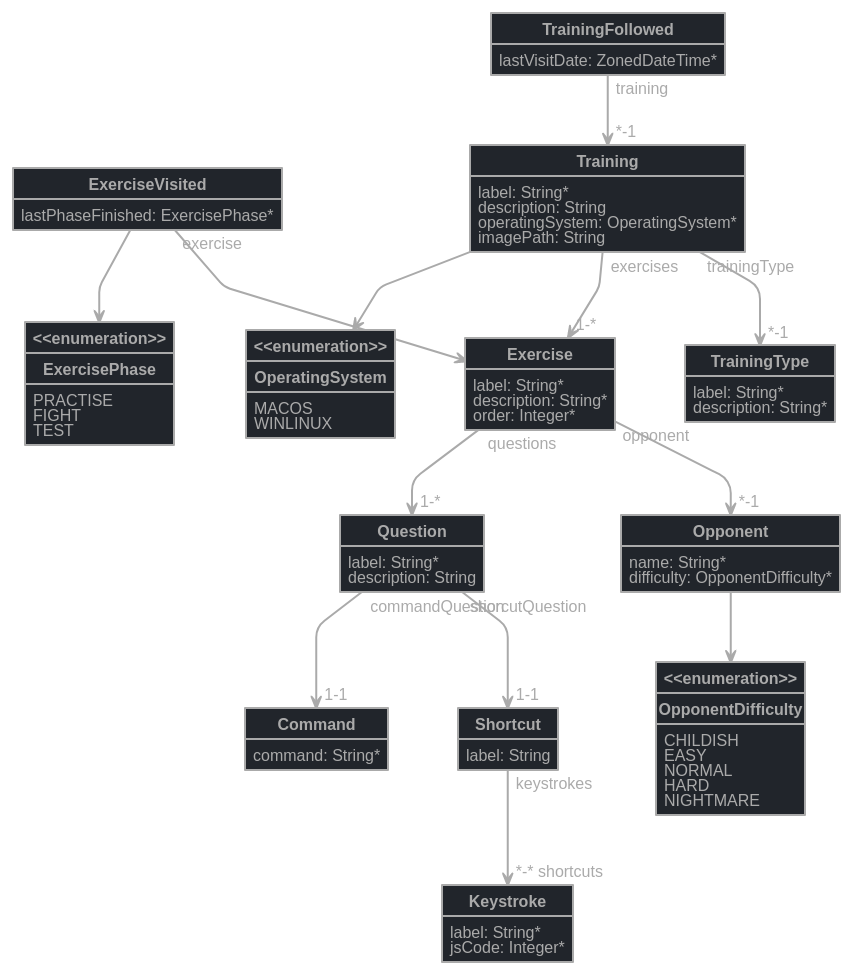
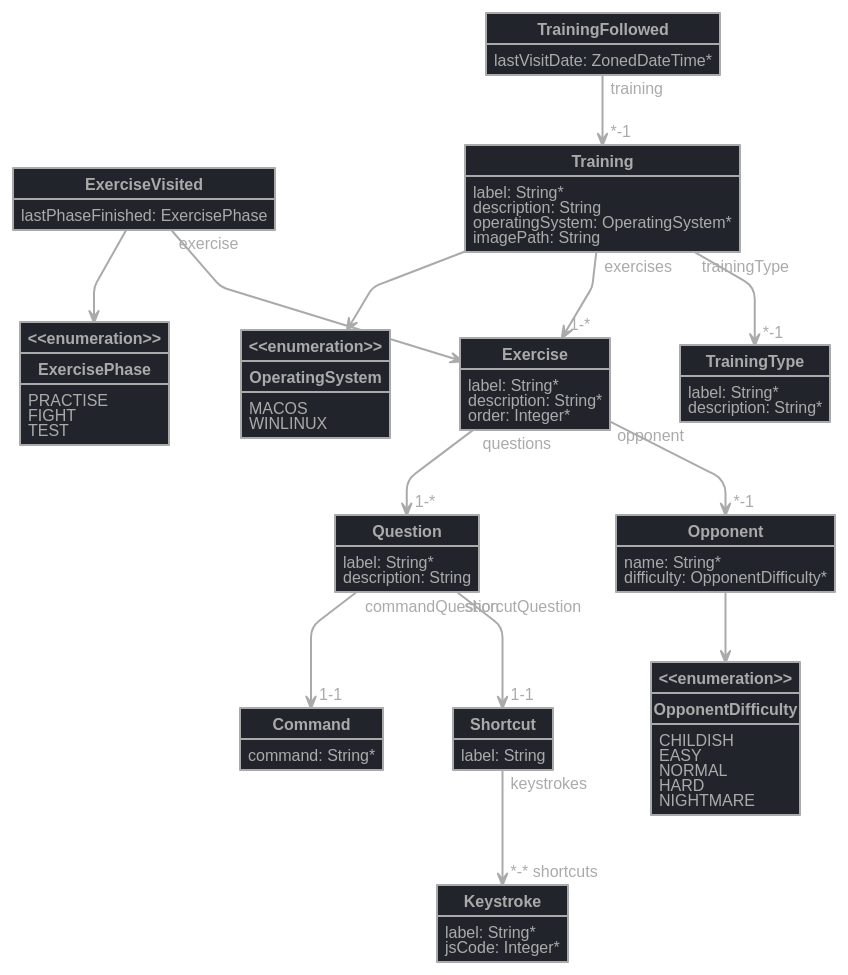
fix: corrected diverse incorrect constraints
Required on lastPhaseFinished of ExerciseVisited
Required on descriptions
Adjusted models and lombok once again

diff --git a/src/main/webapp/app/entities/exercise-visited/exercise-visited-dialog.component.html b/src/main/webapp/app/entities/exercise-visited/exercise-visited-dialog.component.html
@@ -14,17 +14,11 @@
         </div>
         <div class="form-group">
             <label class="form-control-label" jhiTranslate="shortcutmasterApp.exerciseVisited.lastPhaseFinished" for="field_lastPhaseFinished">Last Phase Finished</label>
-            <select class="form-control" name="lastPhaseFinished" [(ngModel)]="exerciseVisited.lastPhaseFinished" id="field_lastPhaseFinished"  required>
+            <select class="form-control" name="lastPhaseFinished" [(ngModel)]="exerciseVisited.lastPhaseFinished" id="field_lastPhaseFinished" >
                 <option value="PRACTISE">{{'shortcutmasterApp.ExercisePhase.PRACTISE' | translate}}</option>
                 <option value="FIGHT">{{'shortcutmasterApp.ExercisePhase.FIGHT' | translate}}</option>
                 <option value="TEST">{{'shortcutmasterApp.ExercisePhase.TEST' | translate}}</option>
             </select>
-            <div [hidden]="!(editForm.controls.lastPhaseFinished?.dirty && editForm.controls.lastPhaseFinished?.invalid)">
-                <small class="form-text text-danger"
-                   [hidden]="!editForm.controls.lastPhaseFinished?.errors?.required" jhiTranslate="entity.validation.required">
-                   This field is required.
-                </small>
-            </div>
         </div>
 
         <div class="form-group">

diff --git a/src/main/webapp/app/entities/exercise/exercise-dialog.component.html b/src/main/webapp/app/entities/exercise/exercise-dialog.component.html
@@ -26,13 +26,7 @@
         <div class="form-group">
             <label class="form-control-label" jhiTranslate="shortcutmasterApp.exercise.description" for="field_description">Description</label>
             <input type="text" class="form-control" name="description" id="field_description"
-                [(ngModel)]="exercise.description" required/>
-            <div [hidden]="!(editForm.controls.description?.dirty && editForm.controls.description?.invalid)">
-                <small class="form-text text-danger"
-                   [hidden]="!editForm.controls.description?.errors?.required" jhiTranslate="entity.validation.required">
-                   This field is required.
-                </small>
-            </div>
+                [(ngModel)]="exercise.description" />
         </div>
         <div class="form-group">
             <label class="form-control-label" jhiTranslate="shortcutmasterApp.exercise.order" for="field_order">Order</label>

diff --git a/src/main/webapp/app/entities/training-type/training-type-dialog.component.html b/src/main/webapp/app/entities/training-type/training-type-dialog.component.html
@@ -26,13 +26,7 @@
         <div class="form-group">
             <label class="form-control-label" jhiTranslate="shortcutmasterApp.trainingType.description" for="field_description">Description</label>
             <input type="text" class="form-control" name="description" id="field_description"
-                [(ngModel)]="trainingType.description" required/>
-            <div [hidden]="!(editForm.controls.description?.dirty && editForm.controls.description?.invalid)">
-                <small class="form-text text-danger"
-                   [hidden]="!editForm.controls.description?.errors?.required" jhiTranslate="entity.validation.required">
-                   This field is required.
-                </small>
-            </div>
+                [(ngModel)]="trainingType.description" />
         </div>
 
     </div>

diff --git a/src/main/webapp/app/entities/exercise-visited/exercise-visited.model.ts b/src/main/webapp/app/entities/exercise-visited/exercise-visited.model.ts
@@ -11,7 +11,6 @@ export class ExerciseVisited implements BaseEntity {
         public id?: number,
         public lastPhaseFinished?: ExercisePhase,
         public exercise?: BaseEntity,
-        public user?: BaseEntity,
     ) {
     }
 }

diff --git a/src/main/java/msb/shortcut/master/web/rest/ExerciseVisitedResource.java b/src/main/java/msb/shortcut/master/web/rest/ExerciseVisitedResource.java
@@ -11,7 +11,6 @@ import org.slf4j.LoggerFactory;
 import org.springframework.http.ResponseEntity;
 import org.springframework.web.bind.annotation.*;
 
-import javax.validation.Valid;
 import java.net.URI;
 import java.net.URISyntaxException;
 
@@ -44,7 +43,7 @@ public class ExerciseVisitedResource {
      */
     @PostMapping("/exercise-visiteds")
     @Timed
-    public ResponseEntity<ExerciseVisited> createExerciseVisited(@Valid @RequestBody ExerciseVisited exerciseVisited) throws URISyntaxException {
+    public ResponseEntity<ExerciseVisited> createExerciseVisited(@RequestBody ExerciseVisited exerciseVisited) throws URISyntaxException {
         log.debug("REST request to save ExerciseVisited : {}", exerciseVisited);
         if (exerciseVisited.getId() != null) {
             throw new BadRequestAlertException("A new exerciseVisited cannot already have an ID", ENTITY_NAME, "idexists");
@@ -66,7 +65,7 @@ public class ExerciseVisitedResource {
      */
     @PutMapping("/exercise-visiteds")
     @Timed
-    public ResponseEntity<ExerciseVisited> updateExerciseVisited(@Valid @RequestBody ExerciseVisited exerciseVisited) throws URISyntaxException {
+    public ResponseEntity<ExerciseVisited> updateExerciseVisited(@RequestBody ExerciseVisited exerciseVisited) throws URISyntaxException {
         log.debug("REST request to update ExerciseVisited : {}", exerciseVisited);
         if (exerciseVisited.getId() == null) {
             return createExerciseVisited(exerciseVisited);

diff --git a/src/main/java/msb/shortcut/master/domain/ExerciseVisited.java b/src/main/java/msb/shortcut/master/domain/ExerciseVisited.java
@@ -7,7 +7,6 @@ import org.hibernate.annotations.Cache;
 import org.hibernate.annotations.CacheConcurrencyStrategy;
 
 import javax.persistence.*;
-import javax.validation.constraints.*;
 
 import java.io.Serializable;
 import java.util.Objects;
@@ -33,9 +32,8 @@ public class ExerciseVisited implements Serializable {
     @SequenceGenerator(name = "sequenceGenerator")
     private Long id;
 
-    @NotNull
     @Enumerated(EnumType.STRING)
-    @Column(name = "last_phase_finished", nullable = false)
+    @Column(name = "last_phase_finished")
     private ExercisePhase lastPhaseFinished;
 
     @ManyToOne
@@ -44,10 +42,7 @@ public class ExerciseVisited implements Serializable {
     @ManyToOne
     private User user;
 
-    public ExerciseVisited user(User user) {
-        this.user = user;
-        return this;
-    }
+    // jhipster-needle-entity-add-field - JHipster will add fields here, do not remove
 
     public ExerciseVisited lastPhaseFinished(ExercisePhase lastPhaseFinished) {
         this.lastPhaseFinished = lastPhaseFinished;

diff --git a/src/test/java/msb/shortcut/master/web/rest/ExerciseVisitedResourceIntTest.java b/src/test/java/msb/shortcut/master/web/rest/ExerciseVisitedResourceIntTest.java
@@ -132,24 +132,6 @@ public class ExerciseVisitedResourceIntTest {
 
     @Test
     @Transactional
-    public void checkLastPhaseFinishedIsRequired() throws Exception {
-        int databaseSizeBeforeTest = exerciseVisitedRepository.findAll().size();
-        // set the field null
-        exerciseVisited.setLastPhaseFinished(null);
-
-        // Create the ExerciseVisited, which fails.
-
-        restExerciseVisitedMockMvc.perform(post("/api/exercise-visiteds")
-            .contentType(TestUtil.APPLICATION_JSON_UTF8)
-            .content(TestUtil.convertObjectToJsonBytes(exerciseVisited)))
-            .andExpect(status().isBadRequest());
-
-        List<ExerciseVisited> exerciseVisitedList = exerciseVisitedRepository.findAll();
-        assertThat(exerciseVisitedList).hasSize(databaseSizeBeforeTest);
-    }
-
-    @Test
-    @Transactional
     public void getAllExerciseVisiteds() throws Exception {
         // Initialize the database
         exerciseVisitedRepository.saveAndFlush(exerciseVisited);

diff --git a/src/test/java/msb/shortcut/master/web/rest/TrainingTypeResourceIntTest.java b/src/test/java/msb/shortcut/master/web/rest/TrainingTypeResourceIntTest.java
@@ -154,24 +154,6 @@ public class TrainingTypeResourceIntTest {
 
     @Test
     @Transactional
-    public void checkDescriptionIsRequired() throws Exception {
-        int databaseSizeBeforeTest = trainingTypeRepository.findAll().size();
-        // set the field null
-        trainingType.setDescription(null);
-
-        // Create the TrainingType, which fails.
-
-        restTrainingTypeMockMvc.perform(post("/api/training-types")
-            .contentType(TestUtil.APPLICATION_JSON_UTF8)
-            .content(TestUtil.convertObjectToJsonBytes(trainingType)))
-            .andExpect(status().isBadRequest());
-
-        List<TrainingType> trainingTypeList = trainingTypeRepository.findAll();
-        assertThat(trainingTypeList).hasSize(databaseSizeBeforeTest);
-    }
-
-    @Test
-    @Transactional
     public void getAllTrainingTypes() throws Exception {
         // Initialize the database
         trainingTypeRepository.saveAndFlush(trainingType);

diff --git a/src/test/java/msb/shortcut/master/web/rest/ExerciseResourceIntTest.java b/src/test/java/msb/shortcut/master/web/rest/ExerciseResourceIntTest.java
@@ -159,24 +159,6 @@ public class ExerciseResourceIntTest {
 
     @Test
     @Transactional
-    public void checkDescriptionIsRequired() throws Exception {
-        int databaseSizeBeforeTest = exerciseRepository.findAll().size();
-        // set the field null
-        exercise.setDescription(null);
-
-        // Create the Exercise, which fails.
-
-        restExerciseMockMvc.perform(post("/api/exercises")
-            .contentType(TestUtil.APPLICATION_JSON_UTF8)
-            .content(TestUtil.convertObjectToJsonBytes(exercise)))
-            .andExpect(status().isBadRequest());
-
-        List<Exercise> exerciseList = exerciseRepository.findAll();
-        assertThat(exerciseList).hasSize(databaseSizeBeforeTest);
-    }
-
-    @Test
-    @Transactional
     public void checkOrderIsRequired() throws Exception {
         int databaseSizeBeforeTest = exerciseRepository.findAll().size();
         // set the field null

diff --git a/src/main/java/msb/shortcut/master/domain/Exercise.java b/src/main/java/msb/shortcut/master/domain/Exercise.java
@@ -40,8 +40,7 @@ public class Exercise implements Serializable {
     @Column(name = "jhi_label", nullable = false)
     private String label;
 
-    @NotNull
-    @Column(name = "description", nullable = false)
+    @Column(name = "description")
     private String description;
 
     @NotNull
@@ -60,7 +59,6 @@ public class Exercise implements Serializable {
     private Training training;
 
     // jhipster-needle-entity-add-field - JHipster will add fields here, do not remove
-
     public Exercise label(String label) {
         this.label = label;
         return this;

diff --git a/src/main/java/msb/shortcut/master/domain/TrainingType.java b/src/main/java/msb/shortcut/master/domain/TrainingType.java
@@ -36,8 +36,7 @@ public class TrainingType implements Serializable {
     @Column(name = "jhi_label", nullable = false)
     private String label;
 
-    @NotNull
-    @Column(name = "description", nullable = false)
+    @Column(name = "description")
     private String description;
 
     // jhipster-needle-entity-add-field - JHipster will add fields here, do not remove
